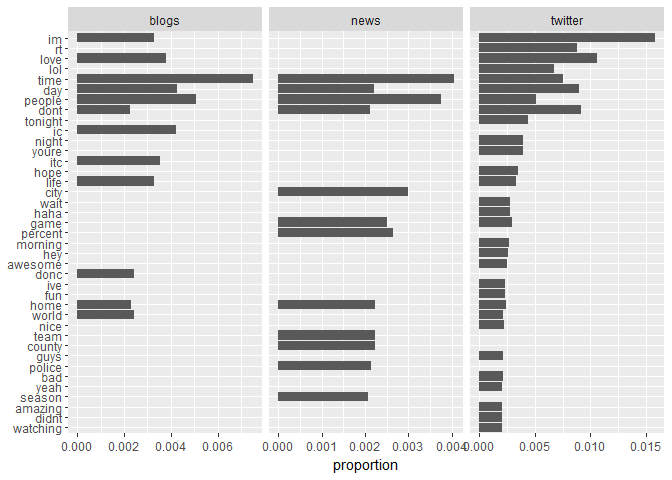
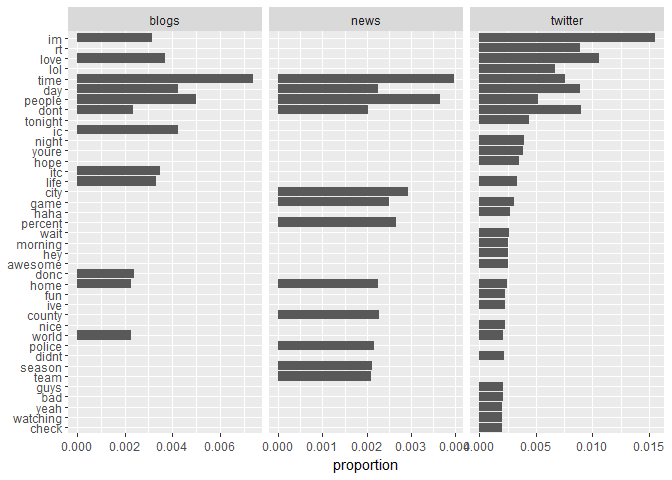
Final knit before milestone report.

diff --git a/02_Task_Script.md b/02_Task_Script.md
@@ -92,8 +92,12 @@ kable(repo_summary)
 | f\_names |   f\_size|  f\_lines|    n\_char|  n\_words|  pct\_n\_char|  pct\_lines|  pct\_words|
 |:---------|---------:|---------:|----------:|---------:|-------------:|-----------:|-----------:|
 | blogs    |  200.4242|    899288|  208361438|  37334131|          0.36|        0.21|        0.37|
-| news     |  195.3141|   1010242|  203791390|  34372528|          0.35|        0.24|        0.34|
+| news     |  196.2775|   1010242|  203791400|  34372528|          0.35|        0.24|        0.34|
 | twitter  |  159.3641|   2360148|  162385035|  30373583|          0.28|        0.55|        0.30|
+
+``` r
+saveRDS(repo_summary, "./clean_repos/repo_summary.rds")
+```
 
 Read the data files into dataframes
 
@@ -106,6 +110,7 @@ twitter <- data_frame(text = twitter)
 Sample the data
 
 ``` r
+set.seed(1001)
 sample_pct <- 0.1
 
 blogs_sample <- blogs %>%
@@ -150,7 +155,7 @@ Clean the sample. Cleaning is separted from tidying so `unnest_tokens` function 
 clean_sample <-  repo_sample %>%
   mutate(text = str_replace_all(text, replace_reg, "")) %>%
   mutate(text = str_replace_all(text, replace_url, "")) %>%
-  mutate(text = str_replace_all(text, replace_aaa, "")) %>%  
+  mutate(text = str_replace_all(text, replace_aaa, "")) %>% 
   mutate(text = iconv(text, "ASCII//TRANSLIT"))
 ```
 
@@ -185,7 +190,7 @@ Word counts: Number of unique words in repo
     ## # A tibble: 1 x 1
     ##     keys
     ##    <int>
-    ## 1 164239
+    ## 1 164925
 
 Number of words to attain 50% and 90% coverage of all words in repo
 
@@ -199,7 +204,7 @@ cover_50 <- tidy_repo %>%
 nrow(cover_50)
 ```
 
-    ## [1] 1318
+    ## [1] 1317
 
 ``` r
 cover_90 <- tidy_repo %>%
@@ -211,7 +216,7 @@ cover_90 <- tidy_repo %>%
 nrow(cover_90)
 ```
 
-    ## [1] 18078
+    ## [1] 18097
 
 4. Word distributions
 ---------------------
@@ -257,12 +262,17 @@ Word cloud
 
 ``` r
 cover_90 %>%
-  #count(word) %>%
   with(wordcloud(word, n, max.words = 100, 
                  colors = brewer.pal(6, 'Dark2'), random.order = FALSE))
 ```
 
 ![](02_Task_Script_files/figure-markdown_github-ascii_identifiers/unnamed-chunk-18-1.png)
+
+``` r
+saveRDS(tidy_repo, "./clean_repos/tidy_repo.rds")
+saveRDS(cover_90, "./clean_repos/cover_90.rds")
+rm(tidy_repo, cover_50, cover_90)
+```
 
 5. Bigrams
 ----------
@@ -270,8 +280,6 @@ cover_90 %>%
 Create bigrams by source using `unnest_tokens`
 
 ``` r
-rm(tidy_repo)
-
 bigram_repo <- clean_sample  %>%
   unnest_tokens(bigram, text, token = "ngrams", n = 2)
 ```
@@ -288,7 +296,7 @@ bigram_cover_90 <- bigram_repo %>%
 nrow(bigram_cover_90)
 ```
 
-    ## [1] 1425835
+    ## [1] 1428897
 
 Bigram distribution
 
@@ -303,6 +311,10 @@ bigram_cover_90 %>%
 ```
 
 ![](02_Task_Script_files/figure-markdown_github-ascii_identifiers/unnamed-chunk-21-1.png)
+
+``` r
+saveRDS(bigram_cover_90, "./clean_repos/bigram_cover_90.rds")
+```
 
 6. Trigrams
 -----------
@@ -326,7 +338,7 @@ trigram_cover_90 <- trigram_repo %>%
 nrow(trigram_cover_90)
 ```
 
-    ## [1] 5162845
+    ## [1] 5178400
 
 trigram distribution
 
@@ -341,6 +353,10 @@ trigram_cover_90 %>%
 ```
 
 ![](02_Task_Script_files/figure-markdown_github-ascii_identifiers/unnamed-chunk-23-1.png)
+
+``` r
+saveRDS(trigram_cover_90, "./clean_repos/trigram_cover_90.rds")
+```
 
 7. Quadgrams
 ------------
@@ -364,7 +380,7 @@ quadgram_cover_90 <- quadgram_repo %>%
 nrow(quadgram_cover_90)
 ```
 
-    ## [1] 7314010
+    ## [1] 7339529
 
 quadgram distribution
 
@@ -386,28 +402,30 @@ quadgrams_separated <- quadgram_cover_90 %>%
 quadgrams_separated
 ```
 
-    ## # A tibble: 7,314,010 x 7
+    ## # A tibble: 7,339,529 x 7
     ##    word1 word2 word3 word4     n   proportion     coverage
     ##  * <chr> <chr> <chr> <chr> <int>        <dbl>        <dbl>
-    ##  1   the   end    of   the   814 9.048742e-05 9.048742e-05
-    ##  2   the  rest    of   the   683 7.592494e-05 1.664124e-04
-    ##  3   for   the first  time   655 7.281236e-05 2.392247e-04
-    ##  4    at   the   end    of   653 7.259003e-05 3.118147e-04
-    ##  5    at   the  same  time   521 5.791639e-05 3.697311e-04
-    ##  6    is going    to    be   442 4.913444e-05 4.188656e-04
-    ##  7  when    it comes    to   416 4.624418e-05 4.651098e-04
-    ##  8   one    of   the  most   415 4.613302e-05 5.112428e-04
-    ##  9    is   one    of   the   410 4.557720e-05 5.568200e-04
-    ## 10    if   you  want    to   382 4.246461e-05 5.992846e-04
-    ## # ... with 7,314,000 more rows
+    ##  1   the   end    of   the   806 8.926682e-05 8.926682e-05
+    ##  2    at   the   end    of   656 7.265389e-05 1.619207e-04
+    ##  3   the  rest    of   the   651 7.210012e-05 2.340208e-04
+    ##  4   for   the first  time   613 6.789151e-05 3.019123e-04
+    ##  5    at   the  same  time   506 5.604095e-05 3.579533e-04
+    ##  6    is going    to    be   482 5.338289e-05 4.113362e-04
+    ##  7    is   one    of   the   446 4.939578e-05 4.607320e-04
+    ##  8   one    of   the  most   435 4.817750e-05 5.089095e-04
+    ##  9  when    it comes    to   419 4.640545e-05 5.553149e-04
+    ## 10 going    to    be     a   376 4.164308e-05 5.969580e-04
+    ## # ... with 7,339,519 more rows
 
 ``` r
+saveRDS(quadgram_cover_90, "./clean_repos/quadgram_cover_90.rds")
+
 end <- Sys.time()
 
 (run_time <- end - start_time)
 ```
 
-    ## Time difference of 10.85804 mins
+    ## Time difference of 14.39052 mins
 
 ------------------------------------------------------------------------
 
